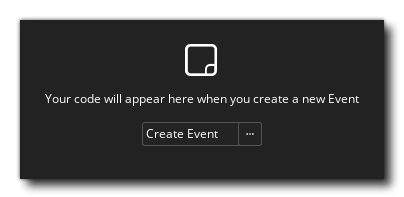
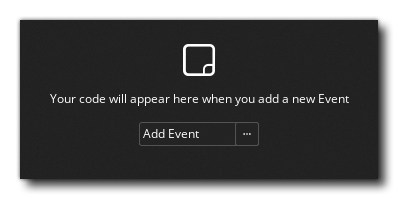
docs(feature): Change "Create Event" back to "Add Event" to avoid confusion with the create event https://github.com/YoYoGames/GameMaker-Bugs/issues/5519

diff --git a/Manual/contents/The_Asset_Editors/Code_Editor_Properties/Editing_Text.htm b/Manual/contents/The_Asset_Editors/Code_Editor_Properties/Editing_Text.htm
@@ -18,7 +18,7 @@
   <p>The <span data-keyref="Code_Editor2_Name">Code Editor</span> will open when you create an asset that requires it (e.g. Objects, Scripts, Shaders, etc.).</p>
   <p>As described on <a data-xref="{title}" href="../The_Text_Editor.htm">The Code Editor</a>, some asset types contain <strong>documents</strong> within them. For example, Objects have <strong>events</strong>, Timelines have <strong>moments</strong>, and Shaders have <strong>fragment</strong> and <strong>vertex </strong>shaders, which are separate <strong>documents</strong> within an asset.</p>
   <p>For Objects and Timelines, since they won&#39;t have any documents to begin with, you will see this:</p>
-  <p><img class="center" src="../../assets/Images/The_IDE/Code Editor/EditingCode_CTA.png" />You can click on the &quot;<strong>Create [Document]</strong>&quot; button to create your first document (in this example, clicking on &quot;<strong>Create Event</strong>&quot; would open the <strong>Events</strong> menu as it is an object).</p>
+  <p><img class="center" src="../../assets/Images/The_IDE/Code Editor/EditingCode_CTA.png" />You can click on the &quot;<strong>Add [Document]</strong>&quot; button to create your first document (in this example, clicking on &quot;<strong>Add Event</strong>&quot; would open the <strong>Events</strong> menu as it is an object).</p>
   <div class="minitoc" data-minitoc-targetid="drop-down" data-type="minitoc" style="">
     <p class="minitoc-caption" data-close-text="" data-expanded="true" data-open-text="Contents" data-type="minitoc-caption" href="#" style="">Mini TOC (placeholder)</p>
     <ol class="minitoc-list" data-from-selector="h2" data-to-selector="h4" data-type="minitoc-list" style="">
